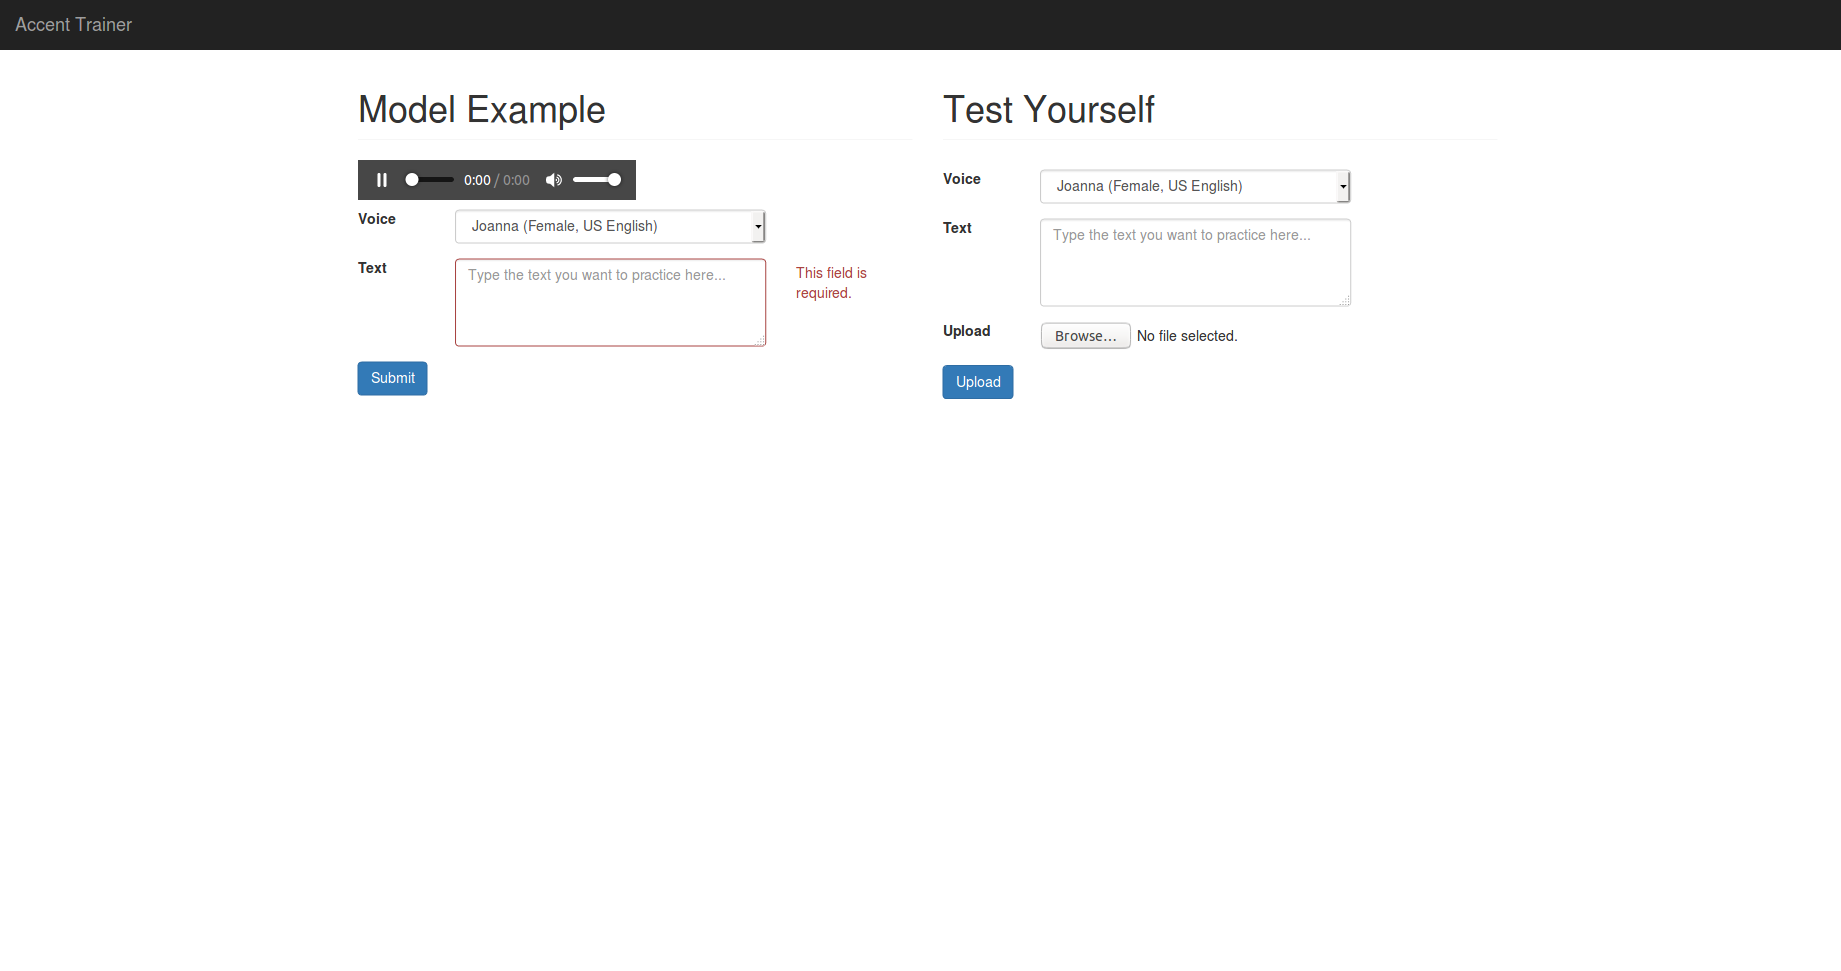
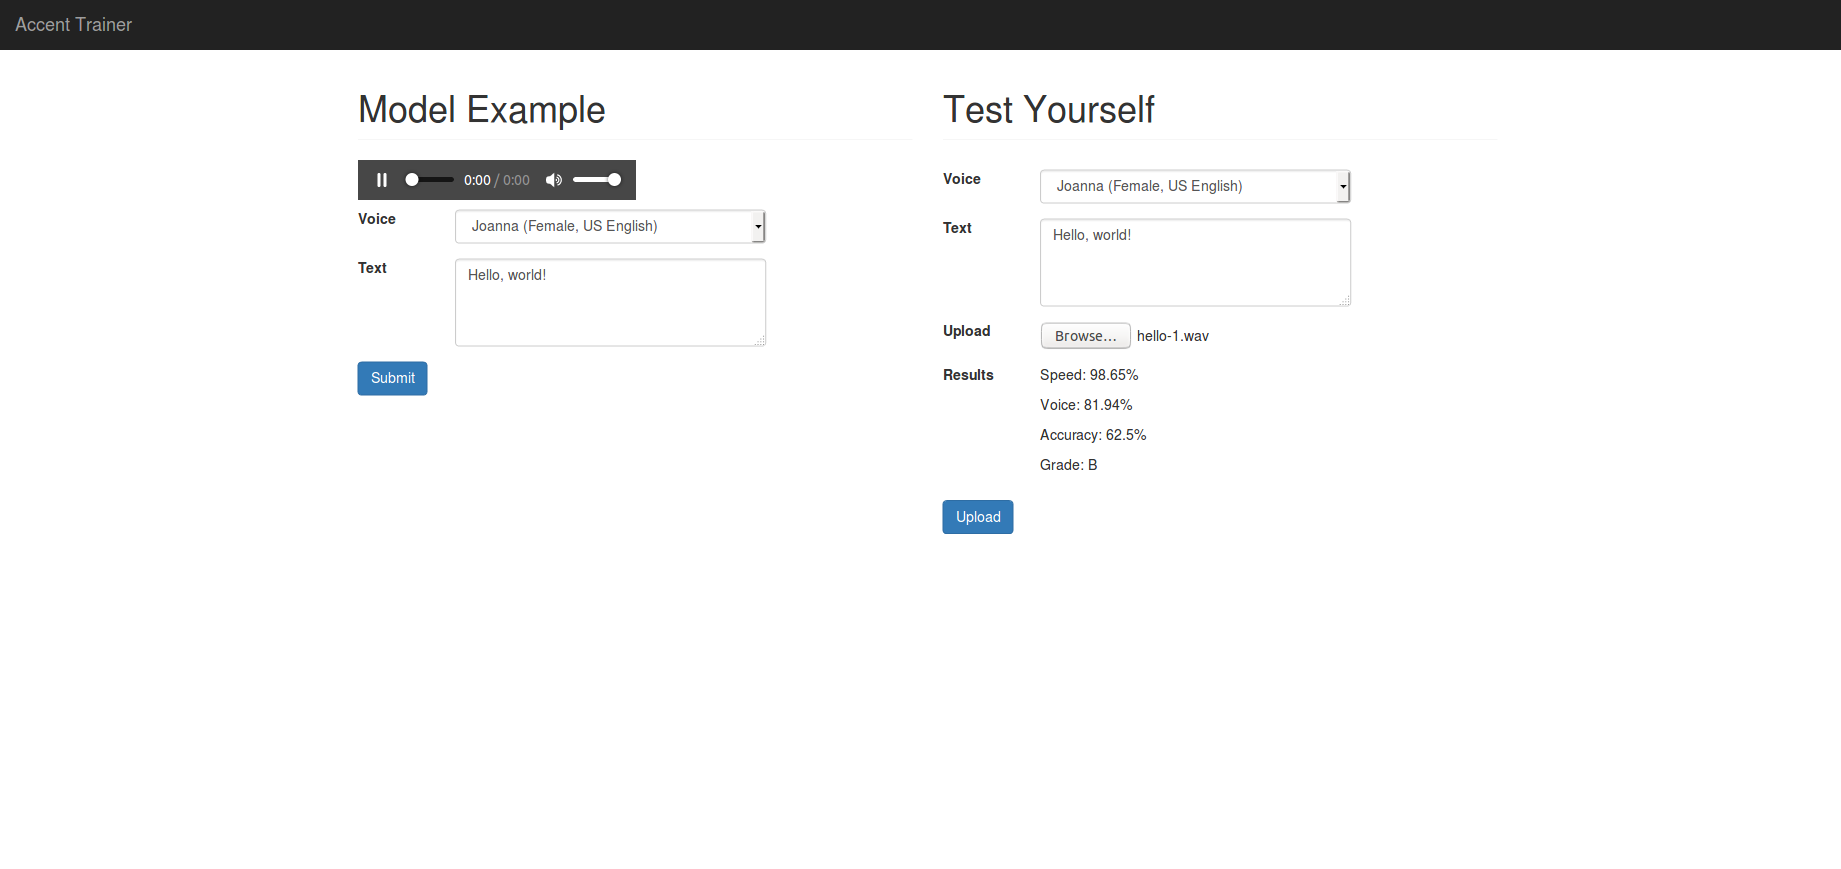
Fixed namespace clash, added ogg support, and cleaned up some lines

diff --git a/app.py b/app.py
@@ -1,7 +1,8 @@
 from boto3 import Session
 from botocore.exceptions import BotoCoreError, ClientError
 from contextlib import closing
-from flask import Flask, jsonify, render_template, request, Response, send_file
+from flask import Flask, jsonify, redirect, render_template, request,\
+    Response, send_file
 from functions import compute_dist, process_audio, resample_for_librosa,\
     save_as_wav
 from models import PollyForm, TestForm
@@ -110,77 +111,80 @@ def read():
         raise InvalidUsage("Wrong parameters", status_code=400)
 
 
-@app.route('/test', methods=['POST'])
+@app.route('/test', methods=['GET','POST'])
 def compare():
     polly_form = PollyForm()
     test_form = TestForm()
-    if test_form.validate_on_submit():
-        text = test_form.test_text.data
-        voiceId = test_form.test_voiceId.data
-        file = test_form.file.data
-        filename = os.path.splitext(secure_filename(file.filename))[0]
-        try:
-            # Request speech synthesis
-            response = polly.synthesize_speech(Text=text,
-                                               VoiceId=voiceId,
-                                               OutputFormat="ogg_vorbis")
-        except (BotoCoreError, ClientError) as err:
-            # The service returned an error
-            raise InvalidUsage(str(err), status_code=500)
+    results = None
+    if request.method == 'POST':
+        if test_form.validate_on_submit():
+            text = test_form.test_text.data
+            voiceId = test_form.test_voiceId.data
+            file = test_form.file.data
+            filename = os.path.splitext(secure_filename(file.filename))[0]
+            try:
+                # Request speech synthesis
+                response = polly.synthesize_speech(Text=text,
+                                                   VoiceId=voiceId,
+                                                   OutputFormat="ogg_vorbis")
+            except (BotoCoreError, ClientError) as err:
+                # The service returned an error
+                raise InvalidUsage(str(err), status_code=500)
 
-        tmp = io.BytesIO(file.read())
-        d1, sr1 = sf.read(tmp, dtype='float32')
-        d1, sr1 = resample_for_librosa(d1, sr1)
-        file_path = save_as_wav(d1, sr1, filename)
-        d1, sr1 = process_audio(d1, sr1)
+            tmp = io.BytesIO(file.read())
+            d1, r1 = sf.read(tmp, dtype='float32')
+            d1, r1 = resample_for_librosa(d1, r1)
+            file_path = save_as_wav(d1, r1, filename)
+            d1, r1 = process_audio(d1, r1)
 
-        # Access the audio stream from the response
-        output = None
-        if "AudioStream" in response:
-            with closing(response["AudioStream"]) as stream:
-                try:
-                    tmp = io.BytesIO(stream.read())
-                except IOError as error:
-                    # Could not write to file, fail gracefully
-                    raise InvalidUsage(error, status_code=400)
-        else:
-            # The response didn't contain audio data, fail gracefully
-            raise InvalidUsage("Could not stream audio", status_code=400)
+            # Access the audio stream from the response
+            output = None
+            if "AudioStream" in response:
+                with closing(response["AudioStream"]) as stream:
+                    try:
+                        tmp = io.BytesIO(stream.read())
+                    except IOError as error:
+                        # Could not write to file, fail gracefully
+                        raise InvalidUsage(error, status_code=400)
+            else:
+                # The response didn't contain audio data, fail gracefully
+                raise InvalidUsage("Could not stream audio", status_code=400)
 
-        d2, sr2 = sf.read(tmp, dtype='float32')
-        d2, sr2 = resample_for_librosa(d2, sr2)
-        d2, sr2 = process_audio(d2, sr2)
+            d2, r2 = sf.read(tmp, dtype='float32')
+            d2, r2 = resample_for_librosa(d2, r2)
+            d2, r2 = process_audio(d2, r2)
 
-        time_difference, dtw_dist, accuracy = compute_dist(d1, sr1, d2, sr2,
-                                                           file_path, text)
+            time_difference, dtw_dist, accuracy = compute_dist(d1, r1, d2, r2,
+                                                               file_path, text)
 
-        speed = max((60 - time_difference) / 60 * 100, 0)
-        voice = max((1000 - dtw_dist) / 1000 * 100, 0)
-        accuracy = accuracy * 100
-        average = np.mean([speed, voice, accuracy])
+            speed = max((60 - time_difference) / 60 * 100, 0)
+            voice = max((1000 - dtw_dist) / 1000 * 100, 0)
+            accuracy = accuracy * 100
+            average = np.mean([speed, voice, accuracy])
 
-        if average >= 90:
-            grade = 'A'
-        elif average >= 75:
-            grade = 'B'
-        elif average >= 60:
-            grade = 'C'
-        elif average >= 40:
-            grade = 'D'
-        elif average >= 20:
-            grade = 'E'
-        else:
-            grade = 'F'
+            if average >= 90:
+                grade = 'A'
+            elif average >= 75:
+                grade = 'B'
+            elif average >= 60:
+                grade = 'C'
+            elif average >= 40:
+                grade = 'D'
+            elif average >= 20:
+                grade = 'E'
+            else:
+                grade = 'F'
 
-        results = {
-                    'speed': str(round(speed, 2)),
-                    'voice': str(round(voice, 2)),
-                    'accuracy': str(round(accuracy, 2)),
-                    'grade': grade
-                  }
+            results = {
+                        'speed': str(round(speed, 2)),
+                        'voice': str(round(voice, 2)),
+                        'accuracy': str(round(accuracy, 2)),
+                        'grade': grade
+                      }
 
     return render_template('form.html', polly_form=polly_form,
-                           test_form=test_form, audio_src=None, results=None)
+                           test_form=test_form, audio_src=None,
+                           results=results)
 
 
 @app.route('/test/JSON', methods=['POST'])
@@ -202,10 +206,10 @@ def compare_json():
             raise InvalidUsage(str(err), status_code=500)
 
         tmp = io.BytesIO(file.read())
-        d1, sr1 = sf.read(tmp, dtype='float32')
-        d1, sr1 = resample_for_librosa(d1, sr1)
-        file_path = save_as_wav(d1, sr1, filename)
-        d1, sr1 = process_audio(d1, sr1)
+        d1, r1 = sf.read(tmp, dtype='float32')
+        d1, r1 = resample_for_librosa(d1, r1)
+        file_path = save_as_wav(d1, r1, filename)
+        d1, r1 = process_audio(d1, r1)
 
         # Access the audio stream from the response
         output = None
@@ -220,11 +224,11 @@ def compare_json():
             # The response didn't contain audio data, exit gracefully
             raise InvalidUsage("Could not stream audio", status_code=400)
 
-        d2, sr2 = sf.read(tmp, dtype='float32')
-        d2, sr2 = resample_for_librosa(d2, sr2)
-        d2, sr2 = process_audio(d2, sr2)
+        d2, r2 = sf.read(tmp, dtype='float32')
+        d2, r2 = resample_for_librosa(d2, r2)
+        d2, r2 = process_audio(d2, r2)
 
-        time_difference, dtw_dist, accuracy = compute_dist(d1, sr1, d2, sr2,
+        time_difference, dtw_dist, accuracy = compute_dist(d1, r1, d2, r2,
                                                            file_path, text)
 
         speed = max((60 - time_difference) / 60 * 100, 0)

diff --git a/functions.py b/functions.py
@@ -11,31 +11,33 @@ import soundfile as sf
 import speech_recognition as sr
 import string
 
-BING_KEY = "INSERT BING KEY"
+BING_KEY = "INSERT BING KEY HERE"
 CONVERT_FOLDER = 'converted/'
-r = sr.Recognizer()
+recognizer = sr.Recognizer()
 
 
 # Need to transpose and resample soundfile for processing with librosa
-def resample_for_librosa(d, sr):
+def resample_for_librosa(d, r):
     d = d.T
-    d = librosa.resample(d, sr, 22050)
-    sr = 22050
-    return d, sr
+    d = librosa.resample(d, r, 44100)
+    sr = 44100
+    return d, r
 
 
 # Save using sf instead of librosa to match pcm subtype for bing
-def save_as_wav(d, sr, filename):
+def save_as_wav(d, r, filename):
     x = ''.join(random.choice(string.ascii_uppercase + string.ascii_lowercase +
                               string.digits) for _ in range(24))
     new_path = '{}{}_{}.wav'.format(CONVERT_FOLDER, x, filename)
-    sf.write(new_path, d, sr, subtype='PCM_24')
+    d = d.T
+    # librosa.output.write_wav(new_path, d, r)
+    sf.write(new_path, d, r, 'PCM_24')
     return new_path
 
 
-def process_audio(y, sr):
+def process_audio(d, r):
     # Trim silence at start and end
-    yt, index = librosa.effects.trim(y, 15)
+    dt, index = librosa.effects.trim(d, 15)
 
     # Apply pre-emphasis filter_audio
     # pre_emphasis = 0.97
@@ -43,12 +45,12 @@ def process_audio(y, sr):
 
     # Apply butterworth bandpass filter
     b, a = butter(4, [0.05, 0.8], 'bandpass')
-    yf = lfilter(b, a, yt)
+    df = lfilter(b, a, dt)
 
-    return yt, sr
+    return dt, r
 
 
-def compute_dist(y1, sr1, y2, sr2, file_path, text):
+def compute_dist(y1, r1, y2, r2, file_path, text):
 
     # normalize clips
     yn1, yn2 = normalize(y1, y2)
@@ -57,22 +59,22 @@ def compute_dist(y1, sr1, y2, sr2, file_path, text):
                                   librosa.get_duration(y2))
     print('Time difference: {}'.format(time_difference))
 
-    mfcc1 = mfcc(y1, sr1, numcep=20)
+    mfcc1 = mfcc(y1, r1, numcep=20)
     d_mfcc_feat1 = delta(mfcc1, 2)
-    # fbank_feat = logfbank(y1,sr1)
+    # fbank_feat = logfbank(y1,r1)
 
-    mfcc2 = mfcc(y2, sr2, numcep=20)
+    mfcc2 = mfcc(y2, r2, numcep=20)
     d_mfcc_feat2 = delta(mfcc2, 2)
-    # fbank_feat2 = logfbank(y2,sr2)
+    # fbank_feat2 = logfbank(y2,r2)
 
     dtw_dist = dtw(d_mfcc_feat1, d_mfcc_feat2)
     print('dtw distance mfcc: {}'.format(dtw_dist))
 
     with sr.AudioFile(file_path) as source:
-        audio = r.record(source)  # read the entire audio file
+        audio = recognizer.record(source)  # read the entire audio file
 
     try:
-        recognized_text = r.recognize_bing(audio, key=BING_KEY)
+        recognized_text = recognizer.recognize_bing(audio, key=BING_KEY)
         print(recognized_text)
         translator = str.maketrans('', '', string.punctuation)
         text = text.translate(translator).lower()

diff --git a/models.py b/models.py
@@ -84,6 +84,6 @@ class TestForm(FlaskForm):
                             validators=[DataRequired(), Length(max=500)])
     file = FileField('Upload', validators=[
                                            FileRequired(),
-                                           FileAllowed(['wav'],
-                                                       'WAV recordings only!')
+                                           FileAllowed(['wav','ogg'],
+                                                       'WAV or OGG required.')
                                           ])
